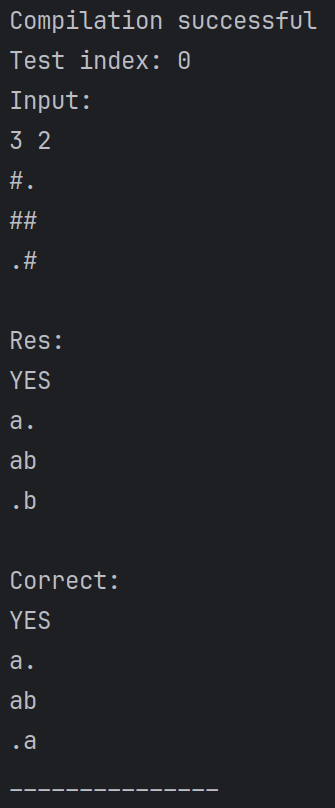
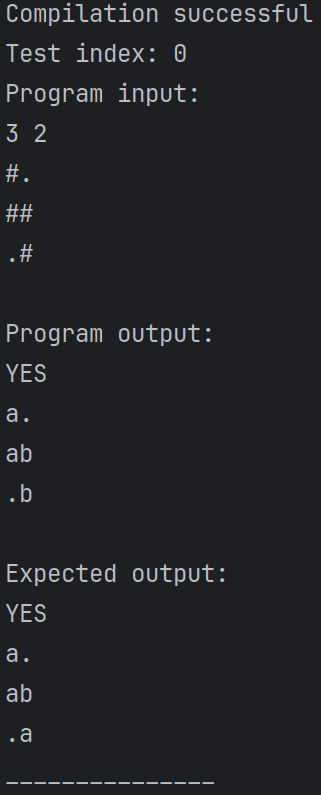
updated img

diff --git a/Tester/Tester.cpp b/Tester/Tester.cpp
@@ -11,9 +11,9 @@ bool Tester::startTest(int index, bool compile) {
 
     if (output != TestInfo::tests[index].expectedOutput || compile) {
         std::cout << "Test index: " << index << std::endl;
-        std::cout << "Input:" << std::endl << TestInfo::tests[index].input << std::endl << std::endl;
-        std::cout << "Res:" << std::endl << output << std::endl << std::endl;
-        std::cout << "Correct:" << std::endl << TestInfo::tests[index].expectedOutput << std::endl;
+        std::cout << "Program input:" << std::endl << TestInfo::tests[index].input << std::endl << std::endl;
+        std::cout << "Program output:" << std::endl << output << std::endl << std::endl;
+        std::cout << "Expected output:" << std::endl << TestInfo::tests[index].expectedOutput << std::endl;
         return false;
     }
     return true;
